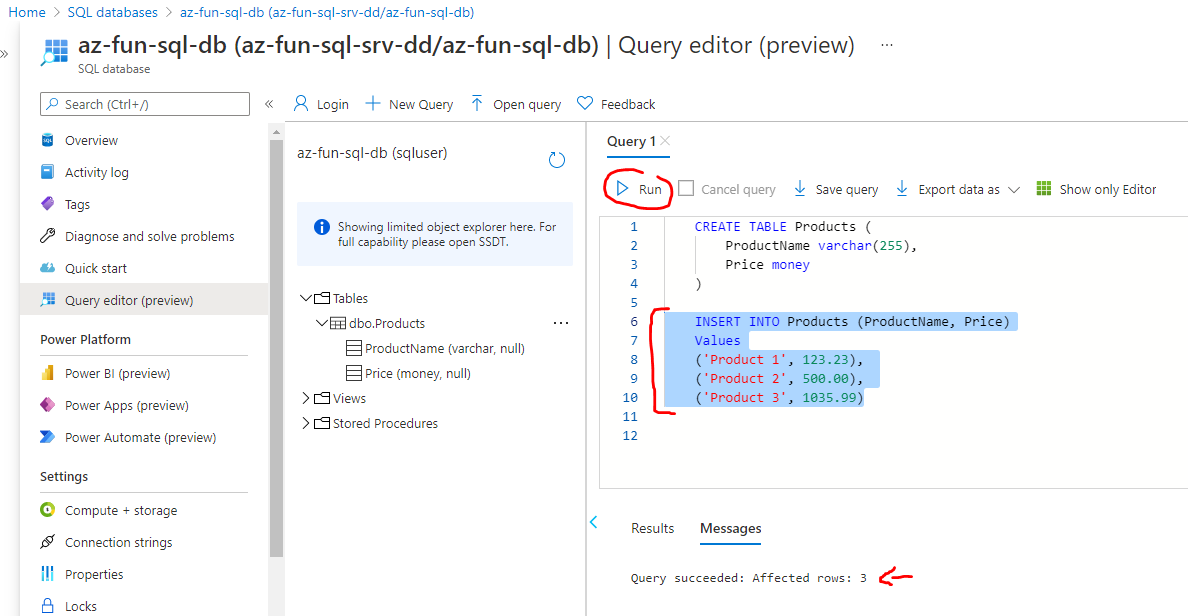
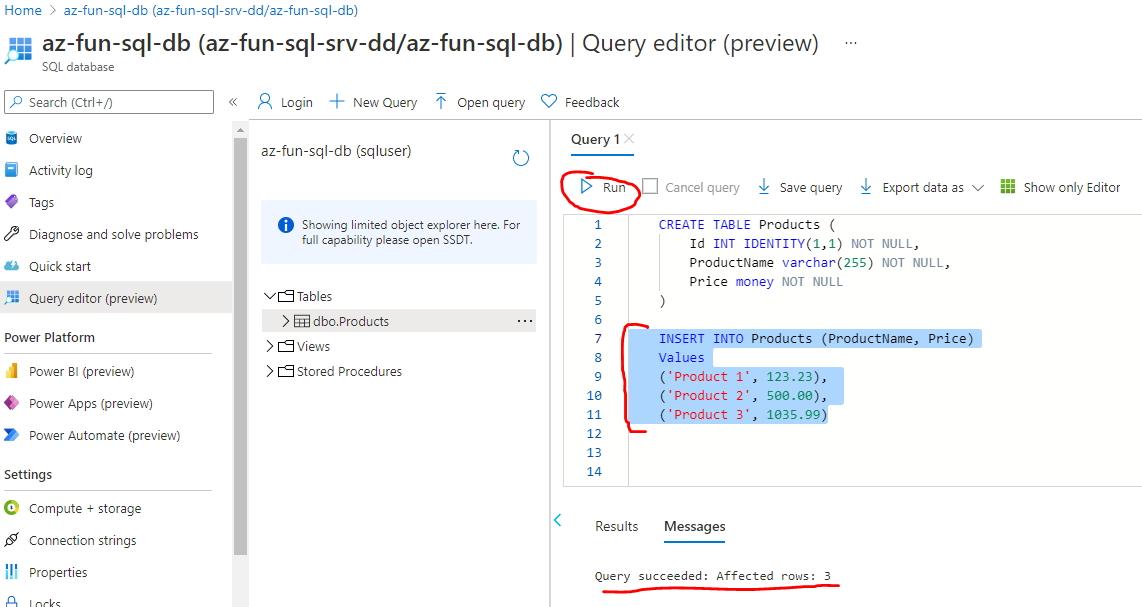
content update

diff --git a/Instructions/04-Azure-sql-databases/7-Create-a-sql-database.md b/Instructions/04-Azure-sql-databases/7-Create-a-sql-database.md
@@ -15,7 +15,7 @@ In this task, we will create a SQL database based on the AdventureWorksLT sample
     | Setting            | Value                                                        |
     | ------------------ | ------------------------------------------------------------ |
     | Subscription       | **Use default supplied**                                     |
-    | Resource group     | **az-fun-sql-rg**                                |
+    | Resource group     | **az-fun-sql-rg**                                            |
     | Database name      | **az-fun-sql-db**                                            |
     | Server             | Select **Create new** (A new sidebar will open on the right) |
     | Server name        | **az-fun-sql-srv-xxxx** (must be unique)                     |
@@ -63,8 +63,9 @@ In this task, we will configure the SQL server and run a SQL query.
     - create a Products table code:
         ```SQL
         CREATE TABLE Products (
-          ProductName varchar(255),
-          Price money
+            Id INT IDENTITY(1,1) NOT NULL,
+            ProductName varchar(255),
+            Price money
         )
         ```
       Click **Run**, and then review the query results in the **Results** pane. The query should run successfully.
@@ -81,7 +82,7 @@ In this task, we will configure the SQL server and run a SQL query.
         ![sql-database-server-queries](/assets/sql-database-server-queries.PNG)
     - query for data code (paste it below the previous query, select and hit run):
         ```SQL
-        SELECT TOP (1000) * FROM [dbo].[Products]
+        SELECT * FROM [dbo].[Products]
         ```
         ![sql-database-server-select-query](/assets/sql-database-server-select-query.PNG)
 
